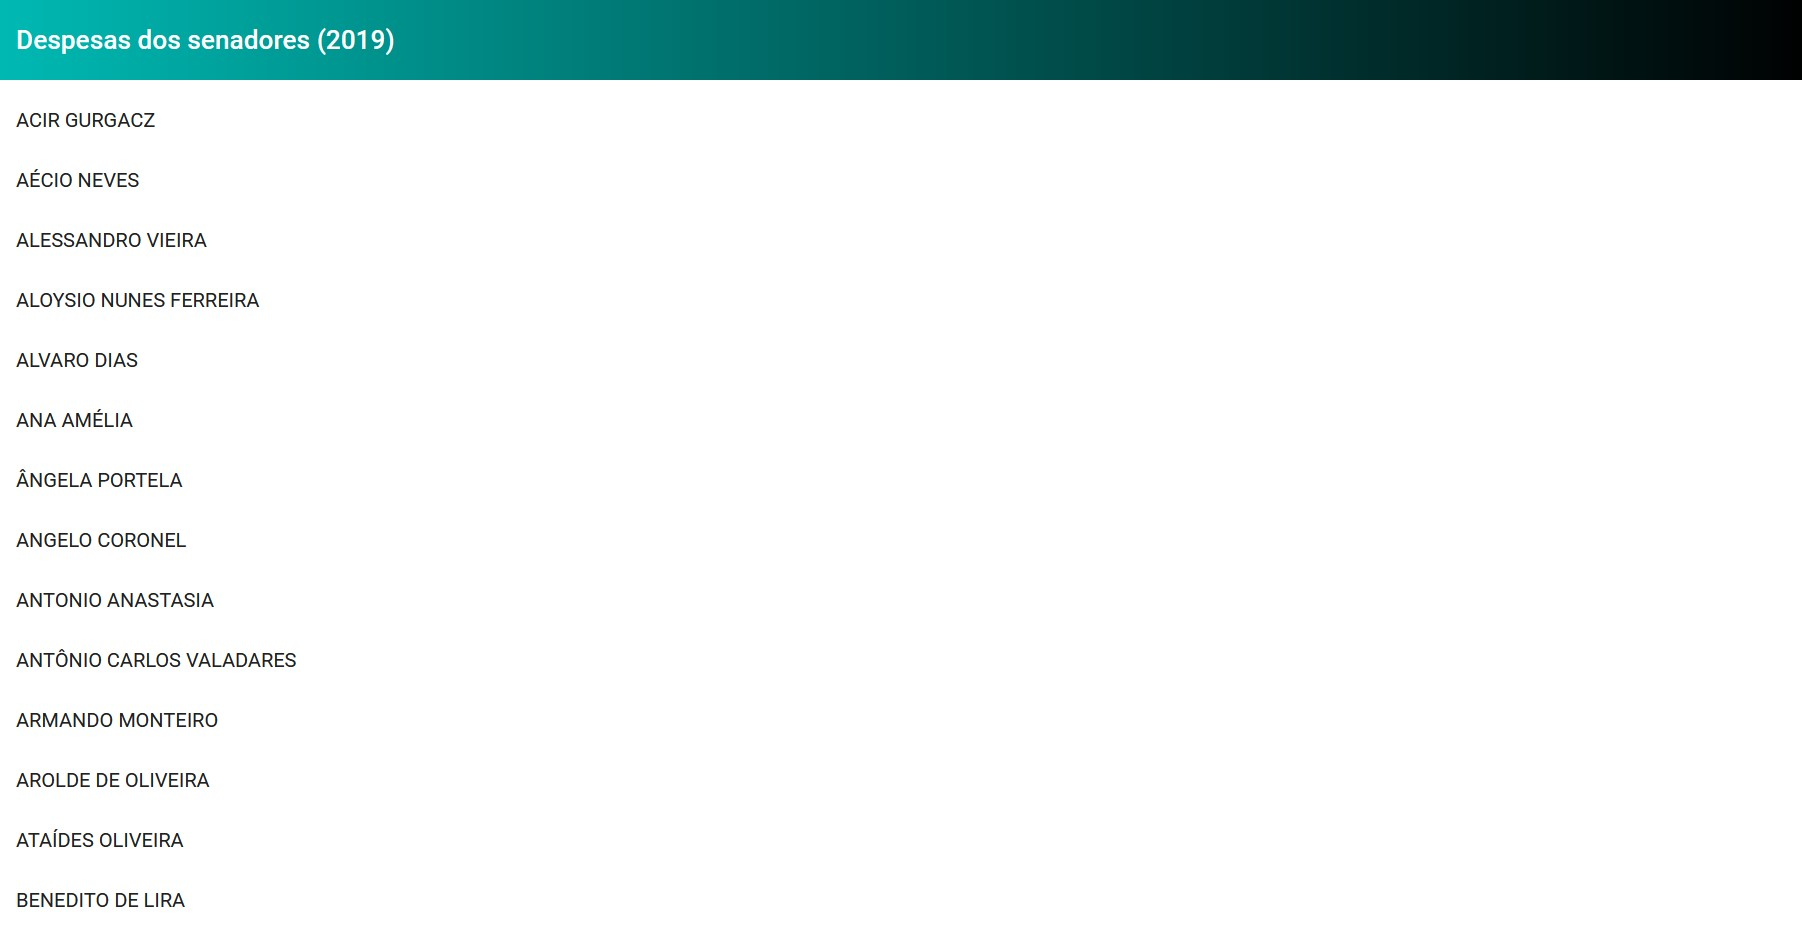
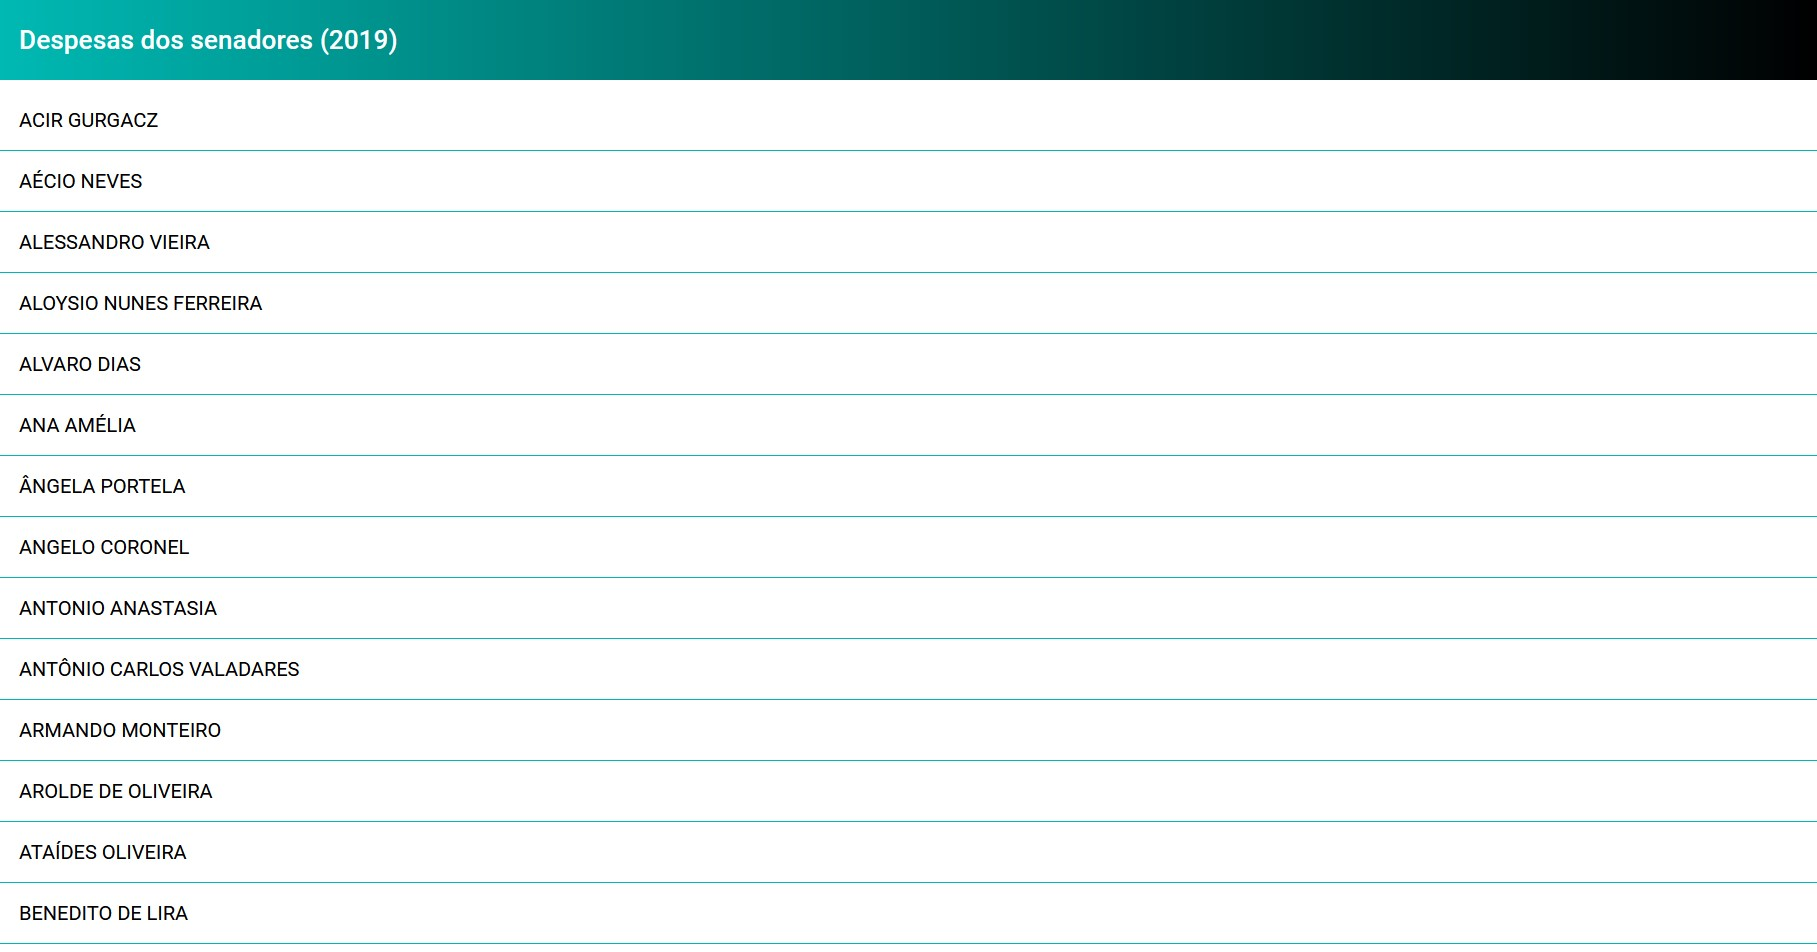
color and readme adjustments

diff --git a/modulo2/desafio/despesas-senadores/src/app/senadores-despesas/senadores-despesas.component.scss b/modulo2/desafio/despesas-senadores/src/app/senadores-despesas/senadores-despesas.component.scss
@@ -2,6 +2,16 @@ mat-toolbar {
   background-image: linear-gradient(to right, rgb(0, 185, 179), rgb(0, 0, 0));
   color: white;
   font-size: 1.5em;
+  display: flex;
+  justify-content: space-between;
+  .back {
+    font-weight: 100;
+    font-size: 2em;
+    cursor: pointer;
+    &:hover {
+      color: rgb(0, 185, 179);
+    }
+  }
 }
 
 table,

diff --git a/modulo2/desafio/despesas-senadores/src/app/senadores-lista/senadores-lista.component.html b/modulo2/desafio/despesas-senadores/src/app/senadores-lista/senadores-lista.component.html
@@ -2,7 +2,7 @@
   <span>Despesas dos senadores (2019)</span>
 </mat-toolbar>
 
-<div>
+<div class="list-container">
   <mat-nav-list>
     <mat-list-item *ngFor="let senador of senadores">
       <a matLine [routerLink]="['/despesasSenadores', senador.id]">{{senador.nomeSenador}}</a>

diff --git a/modulo2/desafio/despesas-senadores/src/app/senadores-despesas/senadores-despesas.component.html b/modulo2/desafio/despesas-senadores/src/app/senadores-despesas/senadores-despesas.component.html
@@ -1,5 +1,6 @@
 <mat-toolbar>
   <span>Despesas dos senadores (2019) - {{ senador?.nomeSenador }}</span>
+  <span class="material-icons back" [routerLink]="['/senadores']"> arrow_back </span>
 </mat-toolbar>
 
 <table style="width: 100%">

diff --git a/modulo2/desafio/despesas-senadores/src/app/senadores-lista/senadores-lista.component.scss b/modulo2/desafio/despesas-senadores/src/app/senadores-lista/senadores-lista.component.scss
@@ -3,3 +3,14 @@ mat-toolbar {
   color: white;
   font-size: 1.5em;
 }
+
+.list-container {
+  background-color: white;
+}
+
+mat-list-item {
+  border-bottom: 1px solid rgb(0,185,179);
+  a {
+    color: black;
+  }
+}

diff --git a/modulo2/desafio/despesas-senadores/README.md b/modulo2/desafio/despesas-senadores/README.md
@@ -1,10 +1,8 @@
 
-<h1 align="center"> :dart: <strong>Super Calculadora </strong></h1>
-<p align="center">Trabalho prático Módulo 2</p>
-<div style="text-align: center">
+<h1 align="center"> :dart: <strong>Despesas de Senadores </strong></h1>
+<p align="center">Desafio Módulo 2</p>
   <img src="./src/assets/despesas-senadores-2.jpg" width="400">
   <img src="./src/assets/despesas-senadores.jpg" width="400">
-</div>
 
 ## :rocket: Desafio
 Construir aplicação utilizando Angular para exibir as despesas  dos senadores no ano de 2019, conforme base de dados fornecida.
